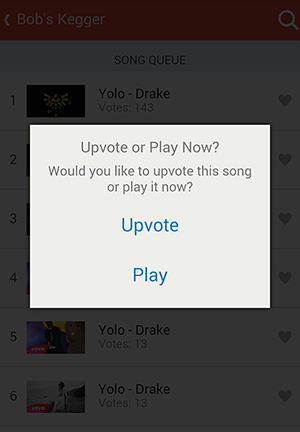
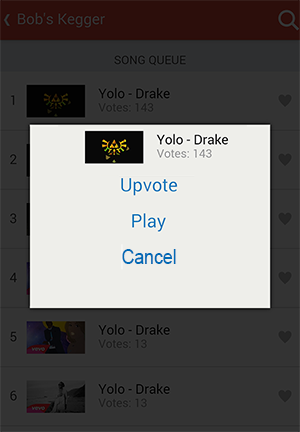
Updated Module Interface section. Made changes to views. Removed "HostPageView" and "HostCreatePartyView", as the features are now included in HostPartyView and HostLoginView respectively.

Changed region(s): [[0.15, 0.3009, 0.84, 0.4514], [0.39, 0.5718, 0.6, 0.662], [0.39, 0.4815, 0.6, 0.5417]]

diff --git a/docs/partyall-design.html b/docs/partyall-design.html
@@ -274,35 +274,8 @@
 			</tr>
 		</tbody>
 	</table>
-	<!-- What is this one again? -->
-	<h4>Host Page View</h4>
-	<table class="table table-striped table-bordered table-decomp">
-		<tbody>
-			<tr>
-				<th>Identification</th>
-				<td>HostPageView</td>
-			</tr>
-			<tr>
-				<th>Purpose</th>
-				<td></td>
-			</tr>
-		</tbody>
-	</table>
 	
 	<!-- PartyController Boundary Elements -->
-	<h4>Create Party View</h4>
-	<table class="table table-striped table-bordered table-decomp">
-		<tbody>
-			<tr>
-				<th>Identification</th>
-				<td>HostCreatePartyView</td>
-			</tr>
-			<tr>
-				<th>Purpose</th>
-				<td>An interface for the host to be able to create a specified party</td>
-			</tr>
-		</tbody>
-	</table>
 	
 	<h4>Party View: Host</h4>
 	<table class="table table-striped table-bordered table-decomp">
@@ -394,17 +367,20 @@
 	<table class="table table-bordered table-striped">
 		<thead>
 			<tr>
-				<th>Button</th>
+				<th>Field</th>
+				<th>Type</th>
 				<th>Description</th>
 			</tr>
 		</thead>
 		<tbody>
 			<tr>
 				<td>host-button</td>
+				<td>input button</td>
 				<td>Links user to the HostLoginView</td>
 			</tr>
 			<tr>
 				<td>guest-button</td>
+				<td>input button</td>
 				<td>Links user to the GuestLoginView</td>
 			</tr>
 		</tbody>
@@ -419,17 +395,30 @@
 	<table class="table table-bordered table-striped">
 		<thead>
 			<tr>
-				<th>Button</th>
+				<th>Field</th>
+				<th>Type</th>
 				<th>Description</th>
 			</tr>
 		</thead>
 		<tbody>
 			<tr>
+				<td>party-name</td>
+				<td>input text</td>
+				<td>The name of the party to either log-in to, or create</td>
+			</tr>
+			<tr>
+				<td>party-password</td>
+				<td>input password</td>
+				<td>The password to the party</td>
+			</tr>
+			<tr>
 				<td>submit-button</td>
-				<td>Host logs into the specified room, and is redirected to HostPageView</td>
+				<td>input submit</td>
+				<td>If the room already exists, the host logs into it. If it doesn't exist, it is created. Host is then directed to HostPageView</td>
 			</tr>
 			<tr>
 				<td>back-button</td>
+				<td>anchor</td>
 				<td>Redirects to ChooseUserTypeView</td>
 			</tr>
 		</tbody>
@@ -443,32 +432,32 @@
 	<table class="table table-bordered table-striped">
 		<thead>
 			<tr>
-				<th>Button</th>
+				<th>Field</th>
+				<th>Type</th>
 				<th>Description</th>
 			</tr>
 		</thead>
 		<tbody>
 			<tr>
+				<td>guestkey</td>
+				<td>input text</td>
+				<td>The guest key for the room to log into</td>
+			</tr>
+			<tr>
 				<td>submit-button</td>
+				<td>input submit</td>
 				<td>Guest attempts to log into the room by the specified access key. Redirects to GuestPartyView if successful</td>
 			</tr>
 			<tr>
 				<td>back-button</td>
+				<td>anchor</td>
 				<td>Redirects to ChooseUserTypeView</td>
 			</tr>
 		</tbody>
 	</table>
 	
-	<h4>HostPageView</h4>
-	
-	<p class="placeholder">I don't quite understand the distinction between HostLoginView, HostCreatePartyView, and this.</p>
-	
 	<!-- PartyController Boundary Elements -->
-	
-	<h4>HostCreatePartyView</h4>
-
-	<p class="placeholder">Note 100% sure on what to put here</p>
-	
+		
 	<h4>HostPartyView</h4>
 	
 	<img src="../img/HostPartyView.png" title="Party View: Host" alt="Host Party View">
@@ -477,33 +466,40 @@
 	<table class="table table-bordered table-striped">
 		<thead>
 			<tr>
-				<th>Button</th>
+				<th>Field</th>
+				<th>Type</th>
 				<th>Description</th>
 			</tr>
 		</thead>
 		<tbody>
 			<tr>
 				<td>song-button</td>
-				<td>Brings up a modal menu with the options to Upvote or Play</td>
+				<td>input button</td>
+				<td>Brings up a modal menu with the options to vote,Play/stop, or cancel</td>
 			</tr>
 			<tr>
-				<td>upvote-button</td>
-				<td>Votes for the currently selected song</td>
+				<td>vote-button</td>
+				<td>input button</td>
+				<td>Text displays "upvote" if it hasn't been voted for, unvote if it has. Votes or unvotes the current song</td>
 			</tr>
 			<tr>
 				<td>play-button</td>
+				<td>input button</td>
 				<td>Instantly plays the currently selected song, stopping the previously played one</td>
 			</tr>
 			<tr>
 				<td>stop-button</td>
-				<td>If a song is playing, stop it (not displayed here)</td>
+				<td>input button</td>
+				<td>(Displays only if song is playing) Stops the currently playing song</td>
 			</tr>
 			<tr>
 				<td>search-button</td>
+				<td>anchor</td>
 				<td>Redirects to SearchSongView</td>
 			</tr>
 			<tr>
 				<td>back-button</td>
+				<td>anchor</td>
 				<td>Redirects to HostPageView</td>
 			</tr>
 		</tbody>
@@ -517,21 +513,25 @@
 	<table class="table table-bordered table-striped">
 		<thead>
 			<tr>
-				<th>Button</th>
+				<th>Field</th>
+				<th>Type</th>
 				<th>Description</th>
 			</tr>
 		</thead>
 		<tbody>
 			<tr>
 				<td>song-button</td>
+				<td>input button</td>
 				<td>Upvotes the selected song if not already upvoted by user, downvotes otherwise</td>
 			</tr>
 			<tr>
 				<td>search-button</td>
+				<td>input button</td>
 				<td>Redirects to SearchSongView</td>
 			</tr>
 			<tr>
 				<td>back-button</td>
+				<td>anchor</td>
 				<td>Redirects to GuestLoginView</td>
 			</tr>
 		</tbody>
@@ -541,19 +541,20 @@
 	
 	<h4>SongView</h4>
 	
-	<img src="../img/MissingView.jpg" title="Song View" alt="Song View">
+	<img src="../img/SongView.png" title="Song View" alt="Song View">
 	
-	<p>Oh god how did this get here I am not good with computer</p>
 	<table class="table table-bordered table-striped">
 		<thead>
 			<tr>
-				<th>Button</th>
+				<th>Field</th>
+				<th>Type</th>
 				<th>Description</th>
 			</tr>
 		</thead>
 		<tbody>
 			<tr>
 				<td>back-button</td>
+				<td>anchor</td>
 				<td>Redirects to the previous view (either GuestPartyView or HostPartyView)</td>
 			</tr>
 		</tbody>
@@ -568,42 +569,56 @@
 	<table class="table table-bordered table-striped">
 		<thead>
 			<tr>
-				<th>Button</th>
+				<th>Field</th>
+				<th>Type</th>
 				<th>Description</th>
 			</tr>
 		</thead>
 		<tbody>
 			<tr>
+				<td>search-field</td>
+				<td>input text</td>
+				<td>The name of the song to search for</td>
+			</tr>
+			<tr>
 				<td>search-button</td>
+				<td>input submit</td>
 				<td>Searches for the specified song</td>
 			</tr>
 			<tr>
 				<td>clear-button</td>
+				<td>input button</td>
 				<td>Clears the search bar</td>
 			</tr>
 			<tr>
 				<td>back-button</td>
+				<td>anchor</td>
 				<td>Redirects to the previous view (either GuestPartyView or HostPartyView)</td>
 			</tr>
 		</tbody>
 	</table>
 	
 	<h4>SearchSongResultView</h4>
+	
+	<img src="../img/SearchSongResultView.png" title="Search Song Result View" alt="Search Song Result View">
 
 	<table class="table table-bordered table-striped">
 		<thead>
 			<tr>
-				<th>Button</th>
+				<th>Field</th>
+				<th>Type</th>
 				<th>Description</th>
 			</tr>
 		</thead>
 		<tbody>
 			<tr>
 				<td>song-button</td>
+				<td>input button</td>
 				<td>Select the searched song and automatically vote for it, then redirects back to the previous view</td>
 			</tr>
 			<tr>
 				<td>back-button</td>
+				<td>anchor</td>
 				<td>Redirects to SearchSongView</td>
 			</tr>
 		</tbody>
